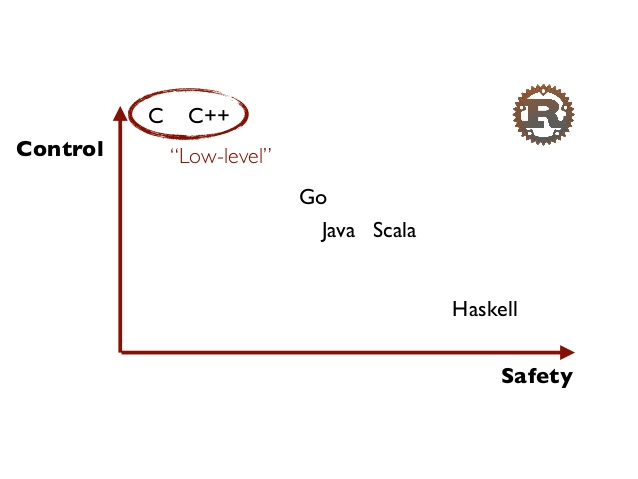
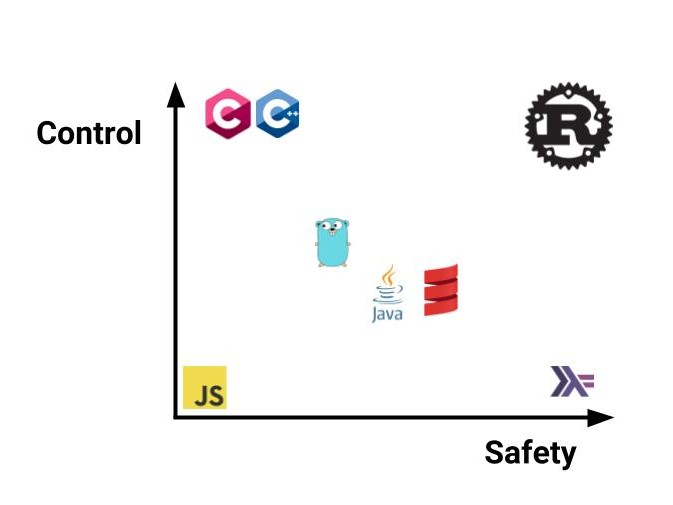
Modify the Safety VS control image
Maybe we add to change the quality image

diff --git a/slides/data/ideas.md b/slides/data/ideas.md
@@ -28,7 +28,7 @@
 
 ## Safety VS control
 
-![llvm_logo](/assets/img/rust_position.jpg)
+![position_in_market](/assets/img/rust_position.jpg)<!-- .element style="background:none; border:none; box-shadow:none;" -->
 
 ---
 
